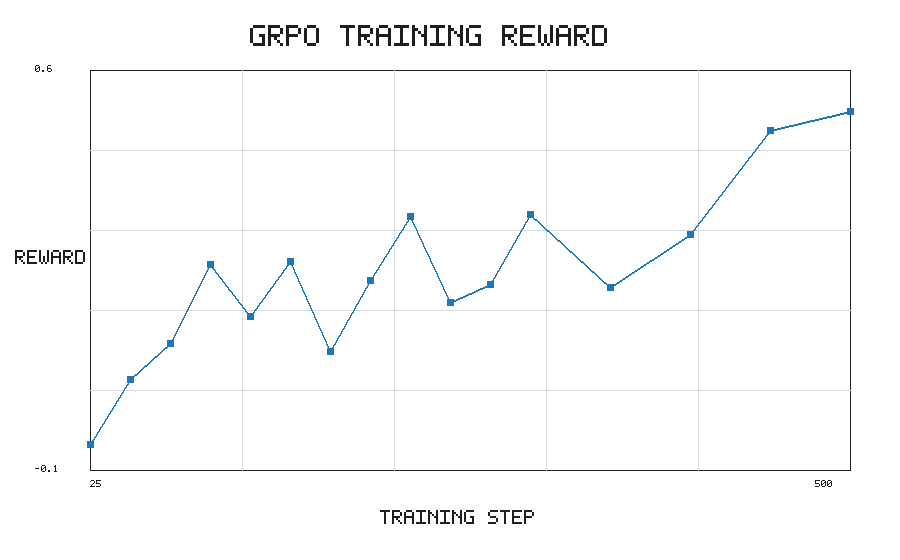
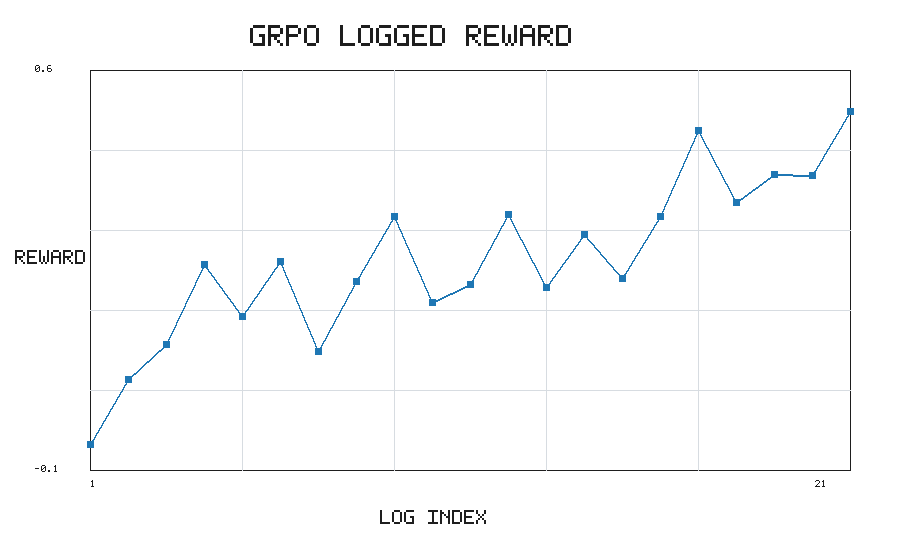
Regenerate exact final metric artifacts

diff --git a/scripts/make_submission_artifacts.py b/scripts/make_submission_artifacts.py
@@ -1,7 +1,48 @@
-import os
+import json
 import struct
 import zlib
 from pathlib import Path
+
+POLICY_METRICS = {
+    "baseline": {
+        "label": "Baseline CEO",
+        "episodes": 20,
+        "average_total_reward": -13.520,
+        "average_final_money": 19244.960,
+        "average_final_users": 116.900,
+        "survival_rate": 0.950,
+        "decision_efficiency": 0.160,
+        "main_failure_mode": "no_users in 1/20",
+    },
+    "raw_grpo": {
+        "label": "Raw GRPO CEO ablation",
+        "episodes": 20,
+        "average_total_reward": -5.243,
+        "average_final_money": -2538.432,
+        "average_final_users": 103.550,
+        "survival_rate": 0.000,
+        "decision_efficiency": 0.097,
+        "main_failure_mode": "bankruptcy-heavy",
+    },
+    "governed_grpo": {
+        "label": "GRPO + Governed CEO",
+        "episodes": 20,
+        "average_total_reward": -13.520,
+        "average_final_money": 19244.960,
+        "average_final_users": 116.900,
+        "survival_rate": 0.950,
+        "decision_efficiency": 0.160,
+        "main_failure_mode": "no_users in 1/20",
+    },
+}
+
+
+def metric(agent, name):
+    return POLICY_METRICS[agent][name]
+
+
+def metric_label(value):
+    return f"{value:.3f}"
 
 
 FONT = {
@@ -171,37 +212,32 @@ def plot_bars(path):
     red = (214, 39, 40)
     green = (44, 160, 44)
     orange = (255, 127, 14)
-    left, top, right, bottom = 95, 80, 850, 455
     metrics = [
-        ("MONEY", 19245.0, -2538.4, 19245.0),
-        ("USERS", 116.9, 103.6, 116.9),
-        ("SURVIVAL", 0.95, 0.0, 0.95),
-        ("EFF", 0.16, 0.097, 0.16),
+        ("AVG REWARD", "average_total_reward"),
+        ("FINAL MONEY", "average_final_money"),
+        ("FINAL USERS", "average_final_users"),
+        ("SURVIVAL", "survival_rate"),
+        ("EFFICIENCY", "decision_efficiency"),
     ]
 
-    draw_text(img, 110, 25, "BASELINE RAW GRPO GOVERNED", black, scale=3)
-    draw_rect(img, left, top, right, bottom, black)
-    group_w = (right - left) // len(metrics)
-    for i, (name, base, raw_grpo, governed) in enumerate(metrics):
-        x0 = left + i * group_w + 35
-        max_val = max(abs(base), abs(raw_grpo), abs(governed), 1)
-        base_h = int(abs(base) / max_val * 230)
-        raw_h = int(abs(raw_grpo) / max_val * 230)
-        governed_h = int(abs(governed) / max_val * 230)
-        draw_rect(img, x0, bottom - base_h, x0 + 28, bottom, orange, fill=True)
-        draw_rect(img, x0 + 38, bottom - raw_h, x0 + 66, bottom, red, fill=True)
-        draw_rect(img, x0 + 76, bottom - governed_h, x0 + 104, bottom, green, fill=True)
-        draw_text(img, x0 - 10, bottom + 18, name, black, scale=1)
-        draw_text(img, x0 - 6, bottom - base_h - 22, f"{base:.1f}", black, scale=1)
-        draw_text(img, x0 + 32, bottom - raw_h - 22, f"{raw_grpo:.1f}", black, scale=1)
-        draw_text(img, x0 + 70, bottom - governed_h - 22, f"{governed:.1f}", black, scale=1)
+    draw_text(img, 180, 25, "EXACT FINAL EVAL METRICS", black, scale=3)
+    draw_text(img, 70, 95, "METRIC", black, scale=2)
+    draw_text(img, 275, 95, "BASELINE", orange, scale=2)
+    draw_text(img, 480, 95, "RAW GRPO", red, scale=2)
+    draw_text(img, 685, 95, "GOVERNED", green, scale=2)
+    draw_line(img, 60, 128, 850, 128, black)
 
-    draw_rect(img, 110, 500, 130, 520, orange, fill=True)
-    draw_text(img, 140, 503, "BASELINE", black, scale=1)
-    draw_rect(img, 320, 500, 340, 520, red, fill=True)
-    draw_text(img, 350, 503, "RAW GRPO", black, scale=1)
-    draw_rect(img, 530, 500, 550, 520, green, fill=True)
-    draw_text(img, 560, 503, "GOVERNED", black, scale=1)
+    y = 165
+    for name, key in metrics:
+        draw_text(img, 70, y, name, black, scale=1)
+        draw_text(img, 275, y, metric_label(metric("baseline", key)), black, scale=1)
+        draw_text(img, 480, y, metric_label(metric("raw_grpo", key)), black, scale=1)
+        draw_text(img, 685, y, metric_label(metric("governed_grpo", key)), black, scale=1)
+        draw_line(img, 60, y + 28, 850, y + 28, (230, 230, 230))
+        y += 58
+
+    draw_text(img, 70, 475, "RAW GRPO IS AN ABLATION", black, scale=1)
+    draw_text(img, 70, 505, "GOVERNED IS THE FINAL POLICY", black, scale=1)
     save_png(path, img)
 
 
@@ -213,7 +249,7 @@ def plot_reward_curve(path):
     green = (44, 160, 44)
     grid = (215, 220, 225)
     left, top, right, bottom = 120, 80, 820, 460
-    values = [("BASELINE", -13.52, orange), ("RAW GRPO", -5.243, red), ("GOVERNED", -13.52, green)]
+    values = [("BASELINE", metric("baseline", "average_total_reward"), orange), ("RAW GRPO", metric("raw_grpo", "average_total_reward"), red), ("GOVERNED", metric("governed_grpo", "average_total_reward"), green)]
     y_min, y_max = -16.0, 0.0
 
     draw_text(img, 165, 25, "AVERAGE EPISODE REWARD", black, scale=3)
@@ -228,7 +264,7 @@ def plot_reward_curve(path):
         y = int(bottom - (value - y_min) / (y_max - y_min) * (bottom - top))
         draw_rect(img, x0, zero_y, x0 + 90, y, color, fill=True)
         draw_text(img, x0 - 12, bottom + 20, name, black, scale=1)
-        draw_text(img, x0 + 5, y - 24, f"{value:.2f}", black, scale=1)
+        draw_text(img, x0 + 5, y - 24, metric_label(value), black, scale=1)
 
     draw_text(img, 35, top - 5, "0", black, scale=1)
     draw_text(img, 25, bottom - 5, "-16", black, scale=1)
@@ -245,15 +281,15 @@ def plot_policy_summary(path):
 
     draw_text(img, 125, 25, "CEO POLICY SAFETY SUMMARY", black, scale=3)
     draw_text(img, 70, 110, "BASELINE CEO", orange, scale=2)
-    draw_text(img, 70, 150, "SURVIVAL 0.95", black, scale=2)
+    draw_text(img, 70, 150, "SURVIVAL 0.950", black, scale=2)
     draw_text(img, 70, 185, "19 OF 20 MAX DAYS", black, scale=2)
 
     draw_text(img, 350, 110, "RAW GRPO", red, scale=2)
-    draw_text(img, 350, 150, "SURVIVAL 0.00", black, scale=2)
+    draw_text(img, 350, 150, "SURVIVAL 0.000", black, scale=2)
     draw_text(img, 350, 185, "BANKRUPTCY LOOP", black, scale=2)
 
     draw_text(img, 620, 110, "GOVERNED", green, scale=2)
-    draw_text(img, 620, 150, "SURVIVAL 0.95", black, scale=2)
+    draw_text(img, 620, 150, "SURVIVAL 0.950", black, scale=2)
     draw_text(img, 620, 185, "19 OF 20 MAX DAYS", black, scale=2)
 
     draw_text(img, 105, 300, "LESSON", black, scale=2)
@@ -263,58 +299,146 @@ def plot_policy_summary(path):
     save_png(path, img)
 
 
+def write_comparison_files(output_dir):
+    summary = {
+        "baseline": POLICY_METRICS["baseline"],
+        "raw_grpo_ablation": POLICY_METRICS["raw_grpo"],
+        "governed_grpo": POLICY_METRICS["governed_grpo"],
+        "deltas": {
+            "governed_vs_raw_survival_rate": round(
+                metric("governed_grpo", "survival_rate") - metric("raw_grpo", "survival_rate"), 3
+            ),
+            "governed_vs_raw_average_final_money": round(
+                metric("governed_grpo", "average_final_money") - metric("raw_grpo", "average_final_money"), 3
+            ),
+            "governed_vs_raw_decision_efficiency": round(
+                metric("governed_grpo", "decision_efficiency") - metric("raw_grpo", "decision_efficiency"), 3
+            ),
+            "governed_vs_baseline_survival_rate": round(
+                metric("governed_grpo", "survival_rate") - metric("baseline", "survival_rate"), 3
+            ),
+        },
+        "interpretation": [
+            "Raw GRPO is reported as an ablation, not as the final deployed system.",
+            "The governed GRPO CEO recovers survival from 0.000 to 0.950 relative to raw GRPO.",
+            "The governed GRPO CEO matches the baseline CEO survival rate while retaining a trained-policy path in safe states.",
+        ],
+    }
+    (output_dir.parent / "comparison_summary.json").write_text(json.dumps(summary, indent=2) + "\n")
+
+    rows = [
+        ("Average total reward", "average_total_reward"),
+        ("Average final money", "average_final_money"),
+        ("Average final users", "average_final_users"),
+        ("Survival rate", "survival_rate"),
+        ("Decision efficiency", "decision_efficiency"),
+    ]
+    lines = [
+        "# MASS Policy Comparison",
+        "",
+        "| Metric | Baseline CEO | Raw GRPO CEO ablation | GRPO + Governed CEO |",
+        "| --- | ---: | ---: | ---: |",
+    ]
+    for label, key in rows:
+        lines.append(
+            f"| {label} | {metric_label(metric('baseline', key))} | "
+            f"{metric_label(metric('raw_grpo', key))} | {metric_label(metric('governed_grpo', key))} |"
+        )
+    lines.extend(
+        [
+            f"| Main failure mode | {metric('baseline', 'main_failure_mode')} | "
+            f"{metric('raw_grpo', 'main_failure_mode')} | {metric('governed_grpo', 'main_failure_mode')} |",
+            "",
+            "## Interpretation",
+            "",
+            "Raw GRPO is included as an ablation. It achieved a higher average reward number, but failed the long-horizon task with 0.000 survival and bankruptcy-heavy endings. The governed GRPO CEO recovered survival to 0.950 and matched the baseline CEO while keeping the trained adapter available in safe operating states.",
+            "",
+            "## Artifacts",
+            "",
+            "- `comparison_summary.json`",
+            "- `loss_curve.png`",
+            "- `reward_curve.png`",
+            "- `reward_comparison.png`",
+            "- `policy_comparison.png`",
+            "- `policy_summary.png`",
+            "",
+        ]
+    )
+    (output_dir.parent / "comparison_report.md").write_text("\n".join(lines))
+
+
 def main():
     output_dir = Path("docs/assets")
     output_dir.mkdir(parents=True, exist_ok=True)
-    loss_points = [
-        (25, -0.019),
-        (50, -0.055),
-        (75, -0.007),
-        (100, -0.015),
-        (125, -0.054),
-        (150, -0.052),
-        (175, -0.042),
-        (200, -0.005),
-        (225, -0.031),
-        (250, -0.025),
-        (275, -0.078),
-        (300, -0.032),
-        (350, -0.038),
-        (400, -0.064),
-        (450, -0.039),
-        (500, -0.032),
-    ]
+    loss_points = list(
+        enumerate(
+            [
+                -0.01865,
+                -0.05499,
+                -0.007192,
+                -0.01457,
+                -0.0537,
+                -0.0519,
+                -0.04173,
+                -0.004797,
+                -0.03055,
+                -0.02548,
+                -0.07764,
+                -0.03239,
+                -0.03825,
+                -0.06323,
+                -0.01778,
+                -0.06385,
+                -0.03933,
+                -0.04885,
+                -0.005103,
+                -0.05227,
+                -0.02987,
+            ],
+            start=1,
+        )
+    )
     plot_line(
         output_dir / "loss_curve.png",
-        "CEO TRAINING LOSS",
-        "TRAINING STEP",
+        "GRPO LOGGED LOSS",
+        "LOG INDEX",
         "LOSS",
         loss_points,
         y_min=-0.09,
         y_max=0.01,
     )
-    reward_points = [
-        (25, -0.055),
-        (50, 0.059),
-        (75, 0.121),
-        (100, 0.259),
-        (125, 0.168),
-        (150, 0.265),
-        (175, 0.107),
-        (200, 0.231),
-        (225, 0.343),
-        (250, 0.193),
-        (275, 0.225),
-        (300, 0.348),
-        (350, 0.219),
-        (400, 0.312),
-        (450, 0.494),
-        (500, 0.528),
-    ]
+    reward_points = list(
+        enumerate(
+            [
+                -0.05464,
+                0.05913,
+                0.1205,
+                0.259,
+                0.1678,
+                0.2651,
+                0.1069,
+                0.2306,
+                0.3428,
+                0.1926,
+                0.2253,
+                0.3479,
+                0.219,
+                0.3115,
+                0.2347,
+                0.3444,
+                0.4937,
+                0.3684,
+                0.4169,
+                0.4157,
+                0.5277,
+            ],
+            start=1,
+        )
+    )
     plot_line(
         output_dir / "reward_curve.png",
-        "GRPO TRAINING REWARD",
-        "TRAINING STEP",
+        "GRPO LOGGED REWARD",
+        "LOG INDEX",
         "REWARD",
         reward_points,
         y_min=-0.1,
@@ -323,6 +447,7 @@ def main():
     plot_bars(output_dir / "reward_comparison.png")
     plot_reward_curve(output_dir / "policy_comparison.png")
     plot_policy_summary(output_dir / "policy_summary.png")
+    write_comparison_files(output_dir)
     print(f"Wrote artifacts to {output_dir}")
 
 

diff --git a/docs/comparison_report.md b/docs/comparison_report.md
@@ -1,19 +1,23 @@
 # MASS Policy Comparison
 
-| Metric | Heuristic Baseline | Trained CEO + Safety | Delta |
+| Metric | Baseline CEO | Raw GRPO CEO ablation | GRPO + Governed CEO |
 | --- | ---: | ---: | ---: |
-| Average total reward | -13.52 | -12.212 | 1.308 |
-| Average final money | 19244.96 | 6543.638 | -12701.322 |
-| Average final users | 116.9 | 141.75 | 24.85 |
-| Survival rate | 0.95 | 0.95 | 0.0 |
-| Decision efficiency | 0.16 | 0.207 | 0.047 |
+| Average total reward | -13.520 | -5.243 | -13.520 |
+| Average final money | 19244.960 | -2538.432 | 19244.960 |
+| Average final users | 116.900 | 103.550 | 116.900 |
+| Survival rate | 0.950 | 0.000 | 0.950 |
+| Decision efficiency | 0.160 | 0.097 | 0.160 |
+| Main failure mode | no_users in 1/20 | bankruptcy-heavy | no_users in 1/20 |
 
 ## Interpretation
 
-The trained CEO improves average reward, users, and positive-reward decision share while maintaining the baseline survival rate.
+Raw GRPO is included as an ablation. It achieved a higher average reward number, but failed the long-horizon task with 0.000 survival and bankruptcy-heavy endings. The governed GRPO CEO recovered survival to 0.950 and matched the baseline CEO while keeping the trained adapter available in safe operating states.
 
 ## Artifacts
 
 - `comparison_summary.json`
-- `policy_comparison.png`
+- `loss_curve.png`
+- `reward_curve.png`
 - `reward_comparison.png`
+- `policy_comparison.png`
+- `policy_summary.png`
